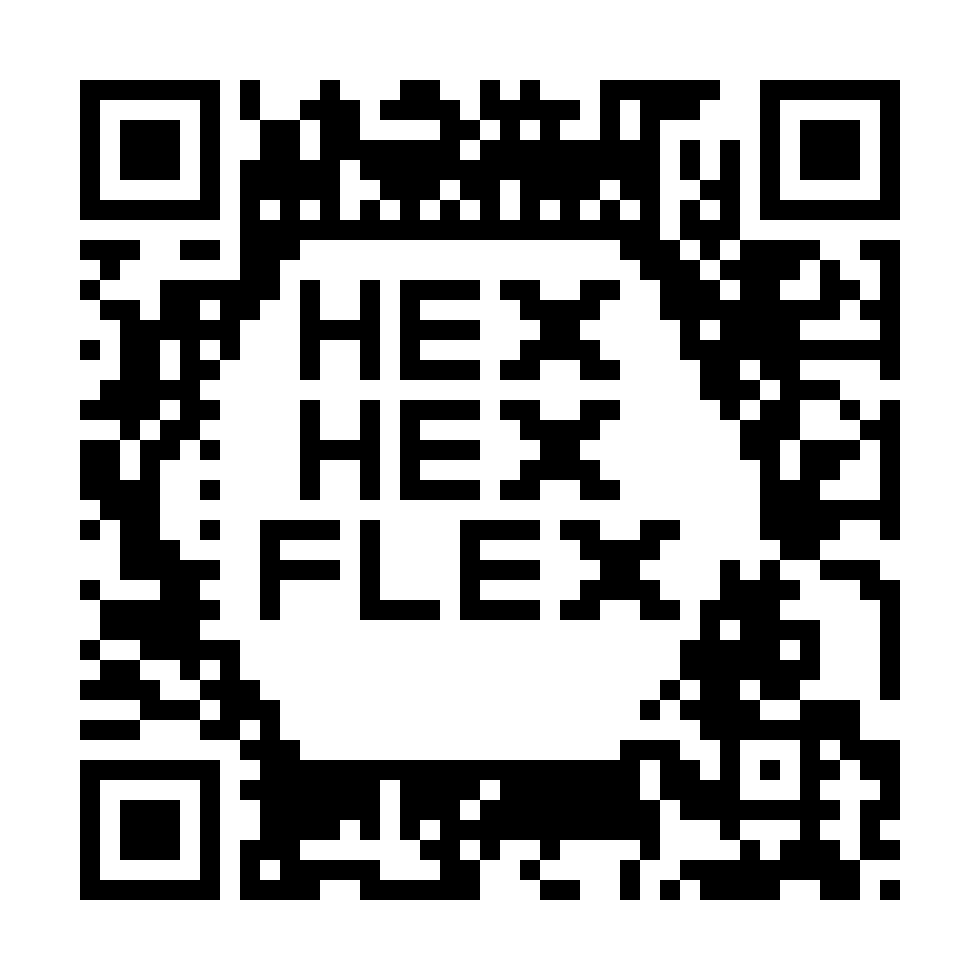
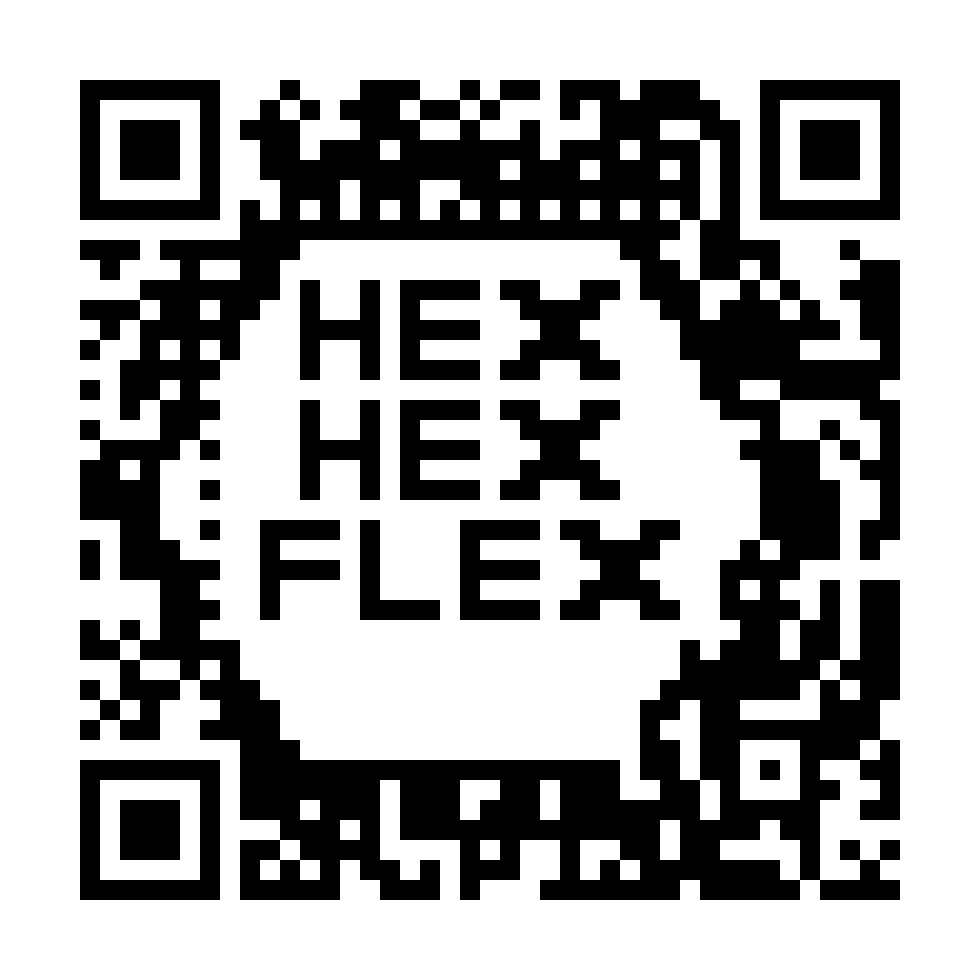
Point the code at a video that exists, and check that from now on
The encoded link was dead. The id came out of a search summary, I flagged it
as unverified, and then verified it wrong: the check passed the video URL to
YouTube's oEmbed endpoint unencoded, so the `?v=` was parsed as a separate
parameter and the "Not Found" that came back was about my request, not the
video. Two independent checks — properly encoded oEmbed, and whether the
thumbnail endpoint serves an image — agree that id never existed.

Now https://youtu.be/JDO-JIjoIlk, "How to Make a Hexa-Hexaflexagon", which
both checks confirm is live, and which is a closer read of the brief than the
history-and-art video it replaces.

The real failure is that nothing caught it. Two decoders, an adversarial
review and a commit all asked "does this decode to the string we meant?" and
not one asked "does that string go anywhere?" check-link.mjs asks the second
question and export.mjs refuses to write artwork for a URL that does not
resolve. A code that scans perfectly and lands on a 404 is a broken code, and
it was the cheapest failure in the whole pipeline to have tested for.

Re-solved rather than re-labelled: the payload bytes changed, so the free-bit
distribution changed with them. The design transferred intact — same hexagon,
same words, no unsatisfied paint — and the draw was re-searched around it.
Ends up better than what it replaces: the longest break in the silhouette is
one module (was two) and the worst block keeps three codewords of headroom.
[…]

diff --git a/tools/qr-art/lab/README.md b/tools/qr-art/lab/README.md
@@ -25,6 +25,9 @@ JSQR_PATH=/tmp/qrverify/node_modules/jsqr node scan-check.mjs runs/both-11
 | `evolve.mjs` | The GA: tournament selection, uniform crossover, per-gene mutation, a repair pass. |
 | `review.mjs` | Best-of-every-lineage into one folder, re-rendered and re-verified. |
 | `scan-check.mjs` | Second opinion from jsQR over the rendered pixels. |
+| `check-link.mjs` | Does the URL in the code actually resolve? |
+| `polish.mjs` | Coordinate descent on how a finished design is *drawn*. |
+| `export.mjs` | Chosen designs out to `../` as artwork plus the recipe that made them. |
 | `png.mjs` | A PNG writer, because node has zlib and that is the whole dependency list. |
 
 `runs/` and `review/` are gitignored: thousands of candidate renders,
@@ -89,6 +92,15 @@ deliberately not in `package.json`:
 ```sh
 mkdir -p /tmp/qrverify && cd /tmp/qrverify && npm i jsqr
 ```
+
+**And neither of them checks the thing that actually broke.** A wrong video id
+sailed through both decoders, an adversarial review and a commit, because
+every check in this lab was asking "does it decode to the string we meant?"
+and none was asking "does that string go anywhere?" `check-link.mjs` asks the
+second question, and `export.mjs` refuses to write artwork for a URL that does
+not resolve (`QR_SKIP_LINK_CHECK=1` to override). A code that scans perfectly
+and lands on a 404 is a broken code, and it is the cheapest failure here to
+test for.
 
 **Neither is a substitute for a phone.** Print adds its own damage; the notes'
 advice to keep ≥2 codewords of headroom and test on real hardware before

diff --git a/tools/qr-art-notes.md b/tools/qr-art-notes.md
@@ -188,6 +188,12 @@ learned the hard way:
   gray, not black. The white cutout reads because it is large and clean
   against texture, not because it is surrounded by ink.
 
+The other thing the bench learned, the expensive way: **verify that the URL
+resolves.** A wrong YouTube id went all the way to a commit inside a code that
+decoded perfectly, because every check asked whether the code decoded to the
+string we meant and none asked whether that string went anywhere. `lab/`'s
+export step now gates on it.
+
 [`lab/`](qr-art/lab/) is the bench where this was found: the studio's own
 engine loaded headless out of the HTML, a genetic algorithm over design
 genomes, and two decoders gating every candidate. It has its own README.
